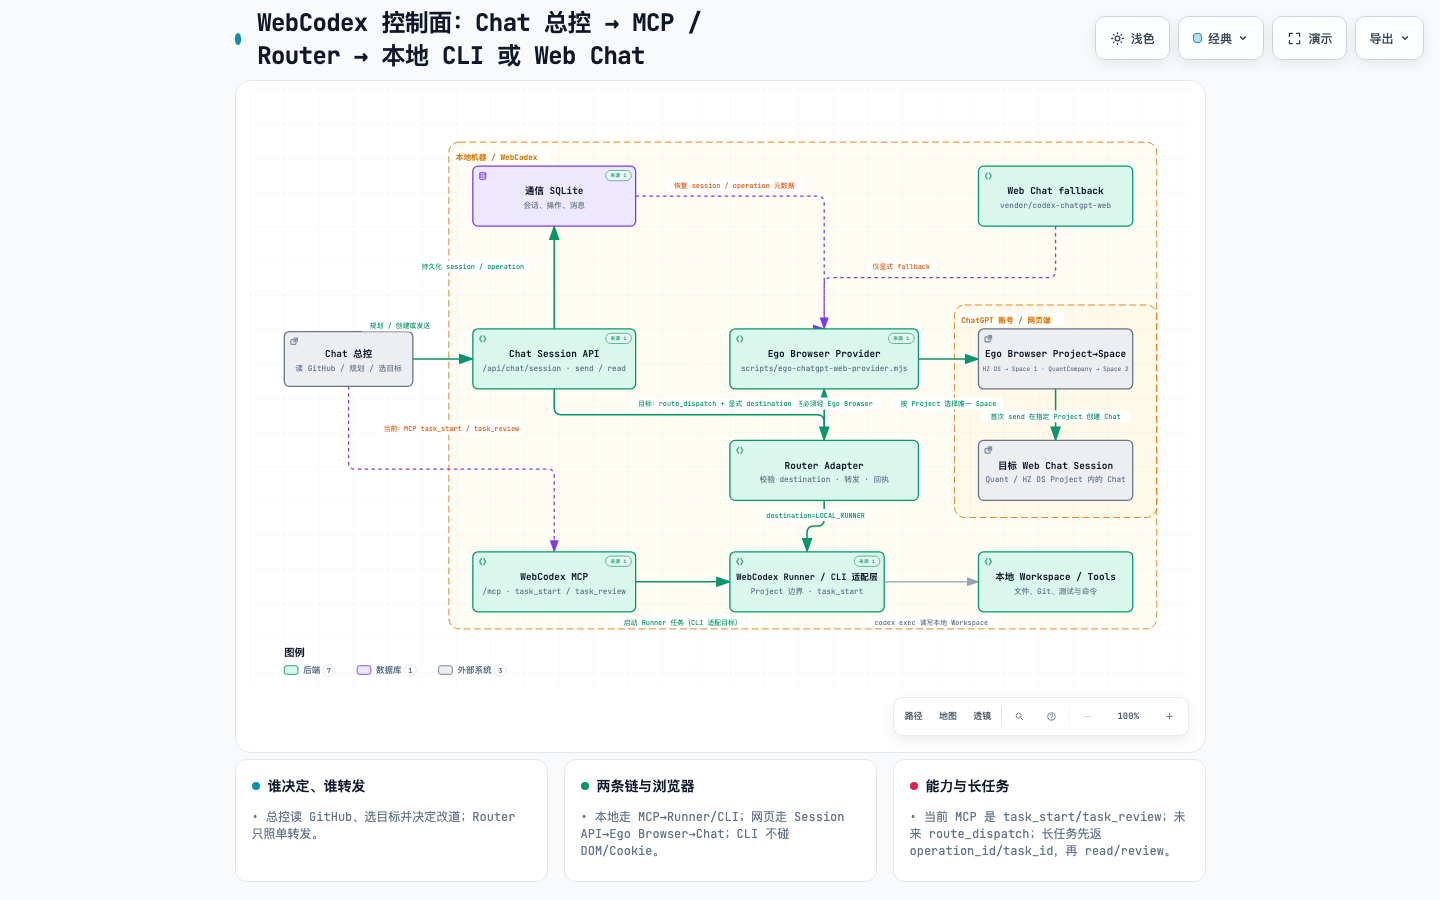
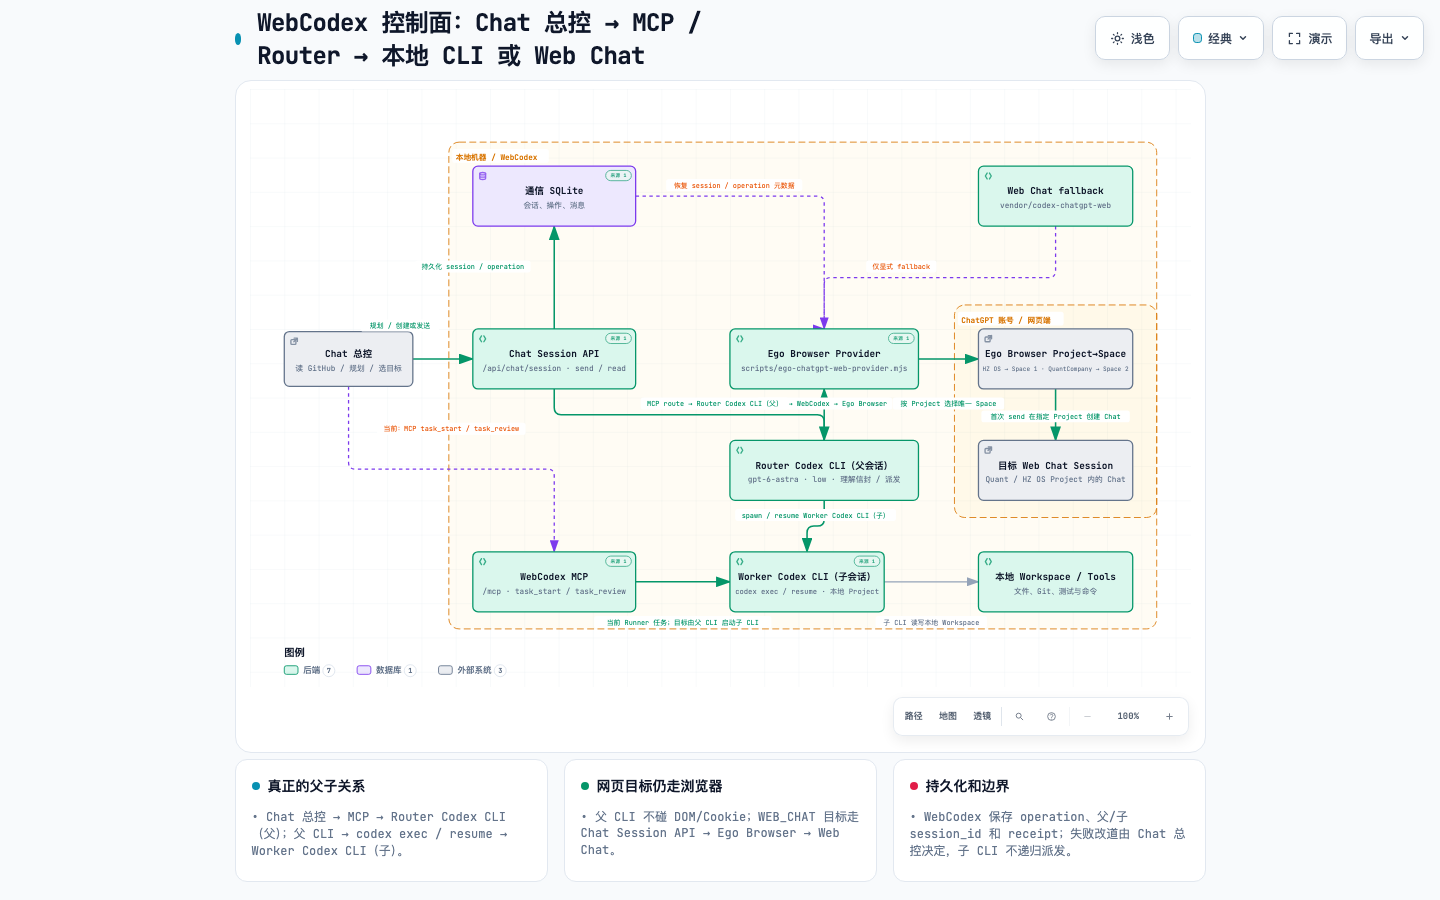
docs: model nested codex router and worker

diff --git a/docs/architecture/archify/runtime.architecture.html b/docs/architecture/archify/runtime.architecture.html
@@ -5164,13 +5164,13 @@ OTHER DEALINGS IN THE FONT SOFTWARE.
         <path data-edge-from="caller" data-edge-to="chat_api" data-edge-label="规划 / 创建或发送" data-edge-key="0" data-edge-id="caller-chat" data-composition-points="190,315;225,315;225,315;260,315" d="M 190 315 L 225 315 L 225 315 L 260 315" class="a-emphasis" stroke-width="1.8" marker-end="url(#arrowhead-emphasis)"/>
         <path data-edge-from="caller" data-edge-to="local_mcp" data-edge-label="当前：MCP task_start / task_review" data-edge-key="1" data-edge-id="caller-mcp" data-composition-points="115,347;115,443.5;355,443.5;355,540" d="M 115 347 L 115 435.5 Q 115 443.5 123 443.5 L 347 443.5 Q 355 443.5 355 451.5 L 355 540" class="a-dashed" stroke-width="1.5" marker-end="url(#arrowhead-dashed)"/>
         <path data-edge-from="chat_api" data-edge-to="store" data-edge-label="持久化 session / operation" data-edge-key="2" data-edge-id="chat-store" data-composition-points="355,280;355,220;355,220;355,160" d="M 355 280 L 355 220 L 355 220 L 355 160" class="a-emphasis" stroke-width="1.8" marker-end="url(#arrowhead-emphasis)"/>
-        <path data-edge-from="local_mcp" data-edge-to="runner" data-edge-label="启动 Runner 任务（CLI 适配目标）" data-edge-key="3" data-edge-id="mcp-runner" data-composition-points="450,575;505,575;505,575;560,575" d="M 450 575 L 505 575 L 505 575 L 560 575" class="a-emphasis" stroke-width="1.8" marker-end="url(#arrowhead-emphasis)"/>
-        <path data-edge-from="thread_agent" data-edge-to="provider" data-edge-label="网页发送必须经 Ego Browser" data-edge-key="4" data-edge-id="chat-provider" data-composition-points="670,410;670,380;670,380;670,350" d="M 670 410 L 670 380 L 670 380 L 670 350" class="a-emphasis" stroke-width="1.8" marker-end="url(#arrowhead-emphasis)"/>
-        <path data-edge-from="chat_api" data-edge-to="thread_agent" data-edge-label="目标：route_dispatch + 显式 destination" data-edge-key="5" data-edge-id="chat-thread-agent" data-composition-points="355,350;355,380;670,380;670,410" d="M 355 350 L 355 372 Q 355 380 363 380 L 662 380 Q 670 380 670 388 L 670 410" class="a-emphasis" stroke-width="1.8" marker-end="url(#arrowhead-emphasis)"/>
-        <path data-edge-from="thread_agent" data-edge-to="runner" data-edge-label="destination=LOCAL_RUNNER" data-edge-key="6" data-edge-id="thread-runner" data-composition-points="670,480;670,510;650,510;650,540" d="M 670 480 L 670 502 Q 670 510 662 510 L 658 510 Q 650 510 650 518 L 650 540" class="a-emphasis" stroke-width="1.8" marker-end="url(#arrowhead-emphasis)"/>
+        <path data-edge-from="local_mcp" data-edge-to="runner" data-edge-label="当前 Runner 任务；目标由父 CLI 启动子 CLI" data-edge-key="3" data-edge-id="mcp-runner" data-composition-points="450,575;505,575;505,575;560,575" d="M 450 575 L 505 575 L 505 575 L 560 575" class="a-emphasis" stroke-width="1.8" marker-end="url(#arrowhead-emphasis)"/>
+        <path data-edge-from="thread_agent" data-edge-to="provider" data-edge-label="父 CLI → WebCodex → Ego Browser" data-edge-key="4" data-edge-id="chat-provider" data-composition-points="670,410;670,380;670,380;670,350" d="M 670 410 L 670 380 L 670 380 L 670 350" class="a-emphasis" stroke-width="1.8" marker-end="url(#arrowhead-emphasis)"/>
+        <path data-edge-from="chat_api" data-edge-to="thread_agent" data-edge-label="MCP route → Router Codex CLI（父）" data-edge-key="5" data-edge-id="chat-thread-agent" data-composition-points="355,350;355,380;670,380;670,410" d="M 355 350 L 355 372 Q 355 380 363 380 L 662 380 Q 670 380 670 388 L 670 410" class="a-emphasis" stroke-width="1.8" marker-end="url(#arrowhead-emphasis)"/>
+        <path data-edge-from="thread_agent" data-edge-to="runner" data-edge-label="spawn / resume Worker Codex CLI（子）" data-edge-key="6" data-edge-id="thread-runner" data-composition-points="670,480;670,510;650,510;650,540" d="M 670 480 L 670 502 Q 670 510 662 510 L 658 510 Q 650 510 650 518 L 650 540" class="a-emphasis" stroke-width="1.8" marker-end="url(#arrowhead-emphasis)"/>
         <path data-edge-from="provider" data-edge-to="taskspace" data-edge-label="按 Project 选择唯一 Space" data-edge-key="7" data-edge-id="provider-taskspace" data-composition-points="780,315;815,315;815,315;850,315" d="M 780 315 L 815 315 L 815 315 L 850 315" class="a-emphasis" stroke-width="1.8" marker-end="url(#arrowhead-emphasis)"/>
         <path data-edge-from="taskspace" data-edge-to="web_project" data-edge-label="首次 send 在指定 Project 创建 Chat" data-edge-key="8" data-edge-id="taskspace-project" data-composition-points="940,350;940,410" d="M 940 350 L 940 410" class="a-emphasis" stroke-width="1.8" marker-end="url(#arrowhead-emphasis)"/>
-        <path data-edge-from="runner" data-edge-to="local_tools" data-edge-label="codex exec 读写本地 Workspace" data-edge-key="9" data-edge-id="runner-tools" data-composition-points="740,575;795,575;795,575;850,575" d="M 740 575 L 795 575 L 795 575 L 850 575" class="a-default" stroke-width="1.5" marker-end="url(#arrowhead)"/>
+        <path data-edge-from="runner" data-edge-to="local_tools" data-edge-label="子 CLI 读写本地 Workspace" data-edge-key="9" data-edge-id="runner-tools" data-composition-points="740,575;795,575;795,575;850,575" d="M 740 575 L 795 575 L 795 575 L 850 575" class="a-default" stroke-width="1.5" marker-end="url(#arrowhead)"/>
         <path data-edge-from="fallback" data-edge-to="provider" data-edge-label="仅显式 fallback" data-edge-key="10" data-edge-id="fallback-provider" data-composition-points="940,160;940,220;670,220;670,280" d="M 940 160 L 940 212 Q 940 220 932 220 L 678 220 Q 670 220 670 228 L 670 280" class="a-dashed" stroke-width="1.5" marker-end="url(#arrowhead-dashed)"/>
         <path data-edge-from="store" data-edge-to="provider" data-edge-label="恢复 session / operation 元数据" data-edge-key="11" data-edge-id="store-provider" data-composition-points="450,125;470,125;670,125;670,280;670,280" d="M 450 125 L 462 125 Q 470 125 478 125 L 662 125 Q 670 125 670 133 L 670 280 L 670 280" class="a-dashed" stroke-width="1.5" marker-end="url(#arrowhead-dashed)"/>
 
@@ -5225,16 +5225,16 @@ OTHER DEALINGS IN THE FONT SOFTWARE.
         <text data-detail="fine" x="355" y="152" class="t-database" font-size="7" text-anchor="middle">source of truth</text>
         </g>
 
-        <g id="node-runner" data-node-id="runner" data-node-label="WebCodex Runner / CLI 适配层" tabindex="0" role="button" aria-label="聚焦WebCodex Runner / CLI 适配层，Project 边界 · task_start, 本地机器 / WebCodex" aria-pressed="false" data-node-kind="backend" data-node-sublabel="Project 边界 · task_start" data-node-tag="现有 Runner；CLI 可接入" data-node-context="本地机器 / WebCodex">
-          <title>WebCodex Runner / CLI 适配层 · Project 边界 · task_start · 本地机器 / WebCodex · 现有 Runner；CLI 可接入</title>
+        <g id="node-runner" data-node-id="runner" data-node-label="Worker Codex CLI（子会话）" tabindex="0" role="button" aria-label="聚焦Worker Codex CLI（子会话），codex exec / resume · 本地 Project, 本地机器 / WebCodex" aria-pressed="false" data-node-kind="backend" data-node-sublabel="codex exec / resume · 本地 Project" data-node-tag="目标执行任务" data-node-context="本地机器 / WebCodex">
+          <title>Worker Codex CLI（子会话） · codex exec / resume · 本地 Project · 本地机器 / WebCodex · 目标执行任务</title>
           <rect x="560" y="540" width="180" height="70" rx="6" class="c-mask"/>
           <rect x="560" y="540" width="180" height="70" rx="6" class="c-backend" stroke-width="1.5"/>
           <g aria-hidden="true" data-semantic-sigil="backend" class="semantic-sigil s-backend" transform="translate(566 546) scale(0.6875)">
             <path d="M6 3 3 8l3 5M10 3l3 5-3 5"/>
           </g>
-          <text data-node-label="" data-detail-anchor="" x="650" y="573" class="t-primary" font-size="10.2" font-weight="600" text-anchor="middle">WebCodex Runner / CLI 适配层</text>
-        <text data-detail="context" x="650" y="589" class="t-muted" font-size="9" text-anchor="middle">Project 边界 · task_start</text>
-        <text data-detail="fine" x="650" y="602" class="t-backend" font-size="7" text-anchor="middle">现有 Runner；CLI 可接入</text>
+          <text data-node-label="" data-detail-anchor="" x="650" y="573" class="t-primary" font-size="11" font-weight="600" text-anchor="middle">Worker Codex CLI（子会话）</text>
+        <text data-detail="context" x="650" y="589" class="t-muted" font-size="8.4" text-anchor="middle">codex exec / resume · 本地 Project</text>
+        <text data-detail="fine" x="650" y="602" class="t-backend" font-size="7" text-anchor="middle">目标执行任务</text>
         </g>
 
         <g id="node-provider" data-node-id="provider" data-node-label="Ego Browser Provider" tabindex="0" role="button" aria-label="聚焦Ego Browser Provider，scripts/ego-chatgpt-web-provider.mjs, 本地机器 / WebCodex" aria-pressed="false" data-node-kind="backend" data-node-sublabel="scripts/ego-chatgpt-web-provider.mjs" data-node-tag="shared runtime" data-node-context="本地机器 / WebCodex">
@@ -5249,16 +5249,16 @@ OTHER DEALINGS IN THE FONT SOFTWARE.
         <text data-detail="fine" x="670" y="342" class="t-backend" font-size="7" text-anchor="middle">shared runtime</text>
         </g>
 
-        <g id="node-thread_agent" data-node-id="thread_agent" data-node-label="Router Adapter" tabindex="0" role="button" aria-label="聚焦Router Adapter，校验 destination · 转发 · 回执, 本地机器 / WebCodex" aria-pressed="false" data-node-kind="backend" data-node-sublabel="校验 destination · 转发 · 回执" data-node-tag="薄适配层 · 不做规划" data-node-context="本地机器 / WebCodex">
-          <title>Router Adapter · 校验 destination · 转发 · 回执 · 本地机器 / WebCodex · 薄适配层 · 不做规划</title>
+        <g id="node-thread_agent" data-node-id="thread_agent" data-node-label="Router Codex CLI（父会话）" tabindex="0" role="button" aria-label="聚焦Router Codex CLI（父会话），gpt-6-astra · low · 理解信封 / 派发, 本地机器 / WebCodex" aria-pressed="false" data-node-kind="backend" data-node-sublabel="gpt-6-astra · low · 理解信封 / 派发" data-node-tag="目标父任务" data-node-context="本地机器 / WebCodex">
+          <title>Router Codex CLI（父会话） · gpt-6-astra · low · 理解信封 / 派发 · 本地机器 / WebCodex · 目标父任务</title>
           <rect x="560" y="410" width="220" height="70" rx="6" class="c-mask"/>
           <rect x="560" y="410" width="220" height="70" rx="6" class="c-backend" stroke-width="1.5"/>
           <g aria-hidden="true" data-semantic-sigil="backend" class="semantic-sigil s-backend" transform="translate(566 416) scale(0.6875)">
             <path d="M6 3 3 8l3 5M10 3l3 5-3 5"/>
           </g>
-          <text data-node-label="" data-detail-anchor="" x="670" y="443" class="t-primary" font-size="11" font-weight="600" text-anchor="middle">Router Adapter</text>
-        <text data-detail="context" x="670" y="459" class="t-muted" font-size="9" text-anchor="middle">校验 destination · 转发 · 回执</text>
-        <text data-detail="fine" x="670" y="472" class="t-backend" font-size="7" text-anchor="middle">薄适配层 · 不做规划</text>
+          <text data-node-label="" data-detail-anchor="" x="670" y="443" class="t-primary" font-size="11" font-weight="600" text-anchor="middle">Router Codex CLI（父会话）</text>
+        <text data-detail="context" x="670" y="459" class="t-muted" font-size="9" text-anchor="middle">gpt-6-astra · low · 理解信封 / 派发</text>
+        <text data-detail="fine" x="670" y="472" class="t-backend" font-size="7" text-anchor="middle">目标父任务</text>
         </g>
 
         <g id="node-local_tools" data-node-id="local_tools" data-node-label="本地 Workspace / Tools" tabindex="0" role="button" aria-label="聚焦本地 Workspace / Tools，文件、Git、测试与命令, 本地机器 / WebCodex" aria-pressed="false" data-node-kind="backend" data-node-sublabel="文件、Git、测试与命令" data-node-context="本地机器 / WebCodex">
@@ -5323,21 +5323,21 @@ OTHER DEALINGS IN THE FONT SOFTWARE.
           <rect x="192.6" y="200" width="134.8" height="14" rx="3" class="c-mask"/>
           <text x="260" y="210" class="t-backend" font-size="8" text-anchor="middle">持久化 session / operation</text>
         </g>
-        <g data-detail="context" data-edge-from="local_mcp" data-edge-to="runner" data-edge-label="启动 Runner 任务（CLI 适配目标）" data-edge-key="3" data-edge-id="mcp-runner">
-          <rect x="423.2" y="615" width="163.6" height="14" rx="3" class="c-mask"/>
-          <text x="505" y="625" class="t-backend" font-size="8" text-anchor="middle">启动 Runner 任务（CLI 适配目标）</text>
+        <g data-detail="context" data-edge-from="local_mcp" data-edge-to="runner" data-edge-label="当前 Runner 任务；目标由父 CLI 启动子 CLI" data-edge-key="3" data-edge-id="mcp-runner">
+          <rect x="401.6" y="615" width="206.79999999999998" height="14" rx="3" class="c-mask"/>
+          <text x="505" y="625" class="t-backend" font-size="8" text-anchor="middle">当前 Runner 任务；目标由父 CLI 启动子 CLI</text>
         </g>
-        <g data-detail="context" data-edge-from="thread_agent" data-edge-to="provider" data-edge-label="网页发送必须经 Ego Browser" data-edge-key="4" data-edge-id="chat-provider">
-          <rect x="602.6" y="360" width="134.8" height="14" rx="3" class="c-mask"/>
-          <text x="670" y="370" class="t-backend" font-size="8" text-anchor="middle">网页发送必须经 Ego Browser</text>
+        <g data-detail="context" data-edge-from="thread_agent" data-edge-to="provider" data-edge-label="父 CLI → WebCodex → Ego Browser" data-edge-key="4" data-edge-id="chat-provider">
+          <rect x="590.6" y="360" width="158.79999999999998" height="14" rx="3" class="c-mask"/>
+          <text x="670" y="370" class="t-backend" font-size="8" text-anchor="middle">父 CLI → WebCodex → Ego Browser</text>
         </g>
-        <g data-detail="context" data-edge-from="chat_api" data-edge-to="thread_agent" data-edge-label="目标：route_dispatch + 显式 destination" data-edge-key="5" data-edge-id="chat-thread-agent">
-          <rect x="443.9" y="360" width="197.2" height="14" rx="3" class="c-mask"/>
-          <text x="542.5" y="370" class="t-backend" font-size="8" text-anchor="middle">目标：route_dispatch + 显式 destination</text>
+        <g data-detail="context" data-edge-from="chat_api" data-edge-to="thread_agent" data-edge-label="MCP route → Router Codex CLI（父）" data-edge-key="5" data-edge-id="chat-thread-agent">
+          <rect x="455.9" y="360" width="173.2" height="14" rx="3" class="c-mask"/>
+          <text x="542.5" y="370" class="t-backend" font-size="8" text-anchor="middle">MCP route → Router Codex CLI（父）</text>
         </g>
-        <g data-detail="context" data-edge-from="thread_agent" data-edge-to="runner" data-edge-label="destination=LOCAL_RUNNER" data-edge-key="6" data-edge-id="thread-runner">
-          <rect x="597.4" y="490" width="125.19999999999999" height="14" rx="3" class="c-mask"/>
-          <text x="660" y="500" class="t-backend" font-size="8" text-anchor="middle">destination=LOCAL_RUNNER</text>
+        <g data-detail="context" data-edge-from="thread_agent" data-edge-to="runner" data-edge-label="spawn / resume Worker Codex CLI（子）" data-edge-key="6" data-edge-id="thread-runner">
+          <rect x="566.2" y="490" width="187.6" height="14" rx="3" class="c-mask"/>
+          <text x="660" y="500" class="t-backend" font-size="8" text-anchor="middle">spawn / resume Worker Codex CLI（子）</text>
         </g>
         <g data-detail="context" data-edge-from="provider" data-edge-to="taskspace" data-edge-label="按 Project 选择唯一 Space" data-edge-key="7" data-edge-id="provider-taskspace">
           <rect x="750" y="360" width="130" height="14" rx="3" class="c-mask"/>
@@ -5347,9 +5347,9 @@ OTHER DEALINGS IN THE FONT SOFTWARE.
           <rect x="853.4" y="375" width="173.2" height="14" rx="3" class="c-mask"/>
           <text x="940" y="385" class="t-backend" font-size="8" text-anchor="middle">首次 send 在指定 Project 创建 Chat</text>
         </g>
-        <g data-detail="context" data-edge-from="runner" data-edge-to="local_tools" data-edge-label="codex exec 读写本地 Workspace" data-edge-key="9" data-edge-id="runner-tools">
-          <rect x="720.4" y="615" width="149.2" height="14" rx="3" class="c-mask"/>
-          <text x="795" y="625" class="t-muted" font-size="8" text-anchor="middle">codex exec 读写本地 Workspace</text>
+        <g data-detail="context" data-edge-from="runner" data-edge-to="local_tools" data-edge-label="子 CLI 读写本地 Workspace" data-edge-key="9" data-edge-id="runner-tools">
+          <rect x="730" y="615" width="130" height="14" rx="3" class="c-mask"/>
+          <text x="795" y="625" class="t-muted" font-size="8" text-anchor="middle">子 CLI 读写本地 Workspace</text>
         </g>
         <g data-detail="context" data-edge-from="fallback" data-edge-to="provider" data-edge-label="仅显式 fallback" data-edge-key="10" data-edge-id="fallback-provider">
           <rect x="719" y="200" width="82" height="14" rx="3" class="c-mask"/>
@@ -5576,30 +5576,30 @@ OTHER DEALINGS IN THE FONT SOFTWARE.
       <div class="card">
         <div class="card-header">
           <div class="card-dot cyan"></div>
-          <h3>谁决定、谁转发</h3>
+          <h3>真正的父子关系</h3>
         </div>
         <ul>
-          <li>&bull; 总控读 GitHub、选目标并决定改道；Router 只照单转发。</li>
+          <li>&bull; Chat 总控 → MCP → Router Codex CLI（父）；父 CLI → codex exec / resume → Worker Codex CLI（子）。</li>
         </ul>
       </div>
 
       <div class="card">
         <div class="card-header">
           <div class="card-dot emerald"></div>
-          <h3>两条链与浏览器</h3>
+          <h3>网页目标仍走浏览器</h3>
         </div>
         <ul>
-          <li>&bull; 本地走 MCP→Runner/CLI；网页走 Session API→Ego Browser→Chat；CLI 不碰 DOM/Cookie。</li>
+          <li>&bull; 父 CLI 不碰 DOM/Cookie；WEB_CHAT 目标走 Chat Session API → Ego Browser → Web Chat。</li>
         </ul>
       </div>
 
       <div class="card">
         <div class="card-header">
           <div class="card-dot rose"></div>
-          <h3>能力与长任务</h3>
+          <h3>持久化和边界</h3>
         </div>
         <ul>
-          <li>&bull; 当前 MCP 是 task_start/task_review；未来 route_dispatch；长任务先返 operation_id/task_id，再 read/review。</li>
+          <li>&bull; WebCodex 保存 operation、父/子 session_id 和 receipt；失败改道由 Chat 总控决定，子 CLI 不递归派发。</li>
         </ul>
       </div>
     </div>

diff --git a/docs/router-agent-architecture.zh-CN.md b/docs/router-agent-architecture.zh-CN.md
@@ -4,23 +4,23 @@
 
 ## 先用白话看调用链
 
-当前不要把“本地 Codex CLI”“Router”“Ego Browser”想成同一个 Agent：
+这里确实有一层父子 Codex CLI：Router Codex CLI 是父会话，Worker Codex CLI 是子会话。两者都可以使用 `gpt-6-astra`、`thinking=low`，但职责不同：
 
 ```text
 Chat 总控
-  ├─ 当前本地链：MCP / task_start → WebCodex Runner → 本地工具或 CLI → task_id
+  ├─ 当前本地链：MCP / task_start → WebCodex Runner → task_id
   └─ 当前网页链：Chat Session API / send → operation_id → Ego Browser → 目标 Web Chat
 
 目标统一入口（后续可加 route_dispatch）：
-Chat 总控 → MCP route_dispatch → Router Adapter
-                                  ├─ destination=LOCAL_RUNNER → 本地 Codex CLI
+Chat 总控 → MCP route_dispatch → Router Codex CLI（父）
+                                  ├─ destination=LOCAL_RUNNER → codex exec / resume → Worker Codex CLI（子）
                                   └─ destination=WEB_CHAT    → Chat Session API → Ego Browser → Web Chat
 ```
 
 这里有三个关键结论：
 
 1. Chat 总控负责读 GitHub、选择目标、决定串行/并行，以及在失败后是否改道。任务失败后不是本地 CLI 自己“猜”另一个 Chat；总控收到失败收据后再发第二次明确调用。
-2. 本地 Codex CLI 只负责本地工作。它不需要直接操作网页 DOM、Cookie 或 ChatGPT 页面；需要网页 Chat 时，由 Router / WebCodex 调用 Chat Session API，再由 Ego Browser 发送和读取。
+2. Router Codex CLI 负责理解总控信封和派发；Worker Codex CLI 只负责本地工作。Worker 不需要直接操作网页 DOM、Cookie 或 ChatGPT 页面；需要网页 Chat 时，由父 CLI / WebCodex 调用 Chat Session API，再由 Ego Browser 发送和读取。
 3. 对外可以是一个 WebCodex MCP Server，但工具能力可以分成“本地任务”和“统一路由”两类。仓库当前已经有 `task_start` / `task_review`；`route_dispatch` 是把两条路径统一起来的后续接口，不应在尚未实现前当成现有能力。
 
 长任务不要让一次 MCP/HTTP 调用挂着一小时。`send` 返回 `202 + operation_id`，本地任务返回 `task_id`；总控之后用 `operation` / `read` 或 `task_review` 查询，最终只接受 `completed`、`failed`、`unknown` 和对应的 durable receipt。
@@ -58,7 +58,7 @@ GitHub Issue / PR / 评论
 
 总控 Chat 负责读取 GitHub 台账和运行状态，决定下一步的目标、优先级、串行/并行方式与验收边界。它必须把目标写成 `[to:ALIAS]`（或结构化 `destination`），并保留 Issue/PR、版本和验收依据；不能用一句“已完成”替代 operation 或 Runner 收据。
 
-本地 Thread Agent 不是协调者，也不生成 `RouteDecision`。它只接受总控已经生成的派发信封，校验目标属于当前 Project 和 Ego TaskSpace，然后调用 WebCodex relay/provider，把原文发送到指定网页 Chat 或本地 Runner，等待 operation/task receipt 并回报：
+Router Codex CLI 不是第二个项目总控，也不读取 GitHub。它只接受总控已经生成的派发信封，校验目标属于当前 Project 和 Ego TaskSpace，然后启动 Worker Codex CLI，或调用 WebCodex relay/provider，把原文发送到指定网页 Chat，等待 operation/task receipt 并回报：
 
 ```json
 {
@@ -71,7 +71,7 @@ GitHub Issue / PR / 评论
 }
 ```
 
-上面的 `RouteDecision` 是总控 Chat 的输入，不是本地 Agent 的推理结果。Thread Agent 不重新猜目标、不改写 mode、不读取 GitHub；网页目标使用固定 `alias → wc_chat_*`，本地目标使用固定 WebCodex Project/Runner。所有发送都有 idempotency key、operation/task id 和 checkpoint。
+上面的 `RouteDecision` 是总控 Chat 的输入，不是 Router 的重新规划结果。Router 不重新猜目标、不改写 mode、不读取 GitHub；网页目标使用固定 `alias → wc_chat_*`，本地目标使用固定 Project 和 Worker session。所有发送都有 idempotency key、operation/task id、父子 session_id 和 checkpoint。子 CLI 默认不再启动孙 CLI，递归深度固定为一层。
 
 Receipt Store 保存总控信封、目标、尝试次数、operation/task 结果和 `unknown` 原因。Issue/PR 的读取、解释和回写仍由总控 Chat 负责；网页响应不明或 Runner 丢回执时保留 `unknown`，不盲重试。
 
